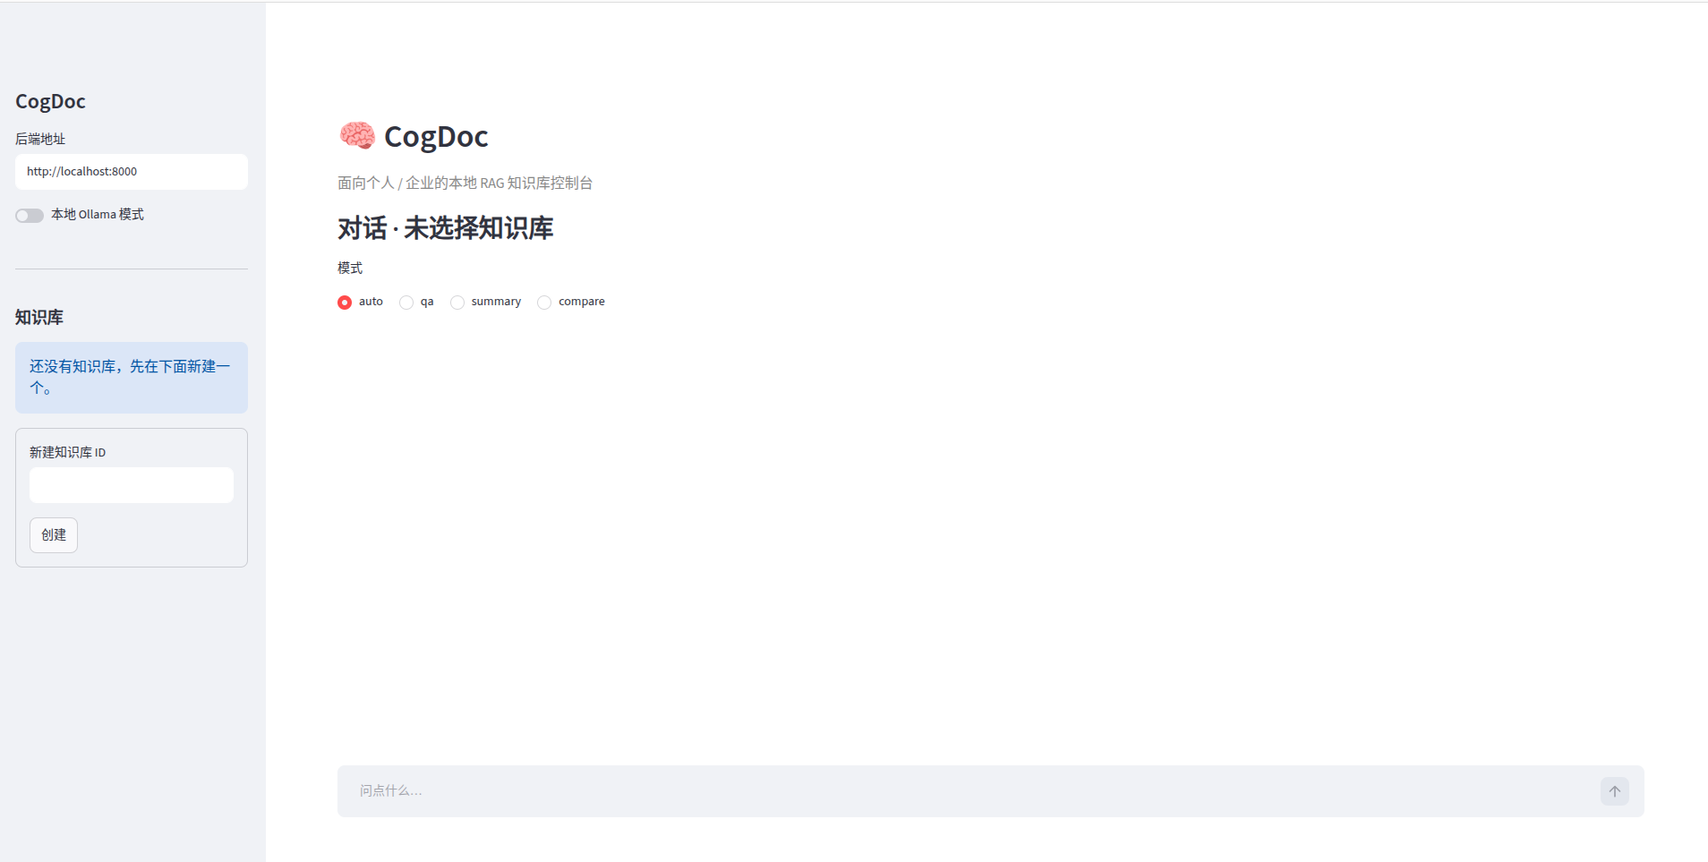
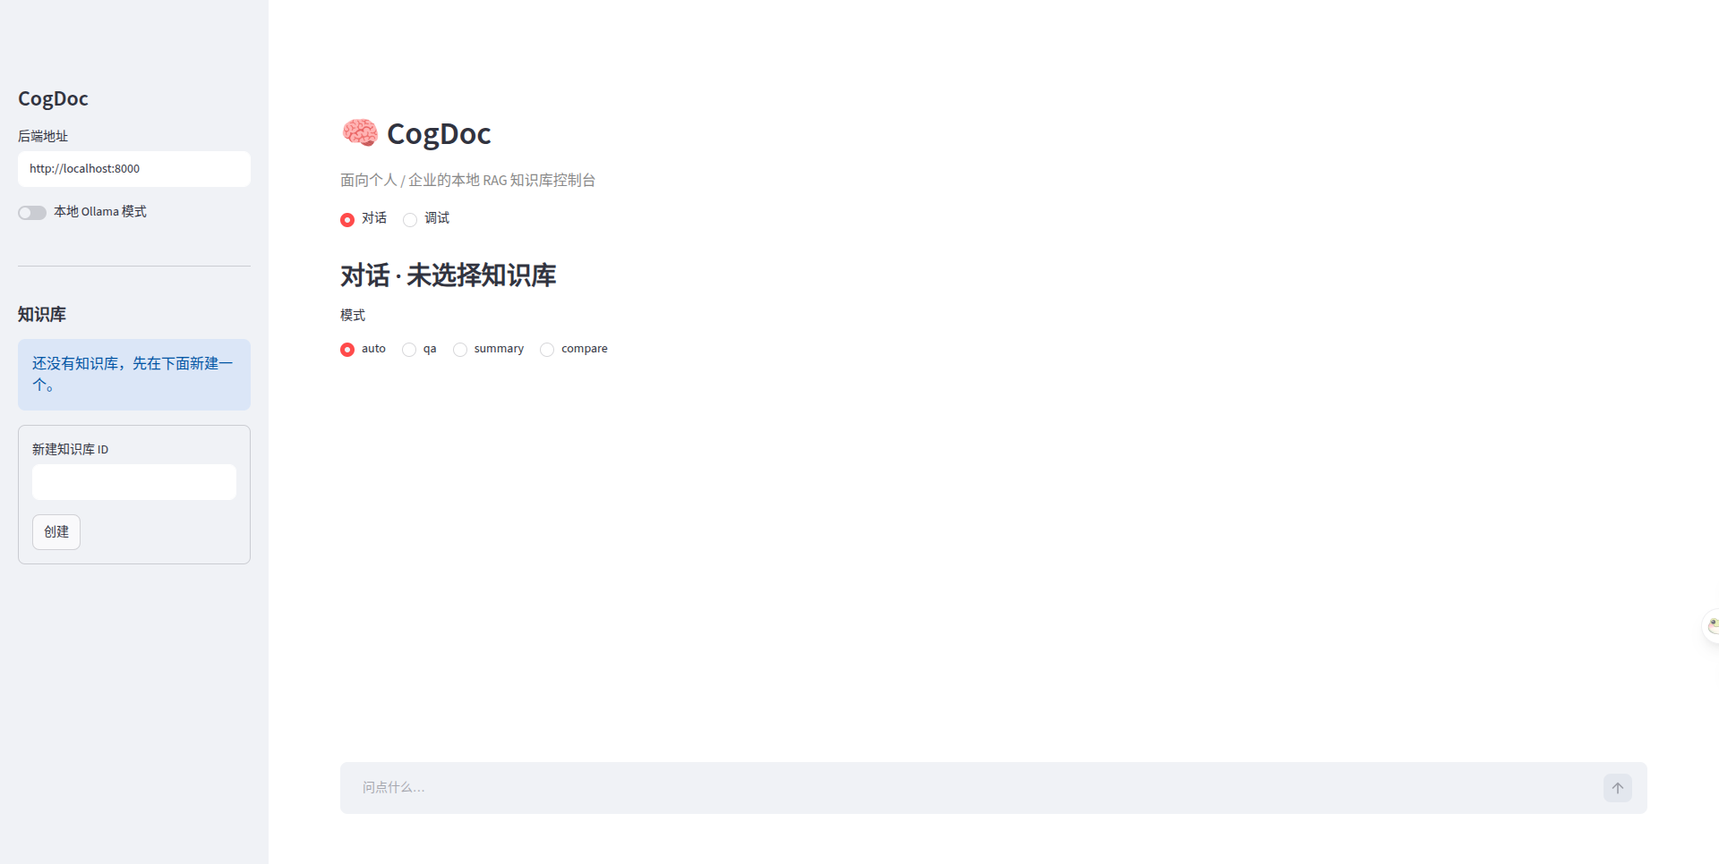
Update README.md

diff --git a/README.md b/README.md
@@ -4,49 +4,65 @@
 
 [English](README.md) · [简体中文](docs/README_zh-CN.md)
 
-A local RAG knowledge-base console for individuals and teams, built on **LangGraph multi-agent orchestration** with a **deterministic Rust core (PyO3 + maturin)** underneath. It answers questions, summarizes a single document, and compares multiple documents over your own PDF knowledge base — and every generated claim is pinned back to a `[source:Pn]` citation that is *checked, not trusted*. Use it from a **CLI console** or a **Streamlit web app** backed by a FastAPI service.
+A local RAG knowledge-base console for individuals and teams, built on **LangGraph multi-agent orchestration** with a **deterministic Rust core (PyO3 + maturin)** underneath. It answers questions, summarizes a single document, and compares multiple documents over your own PDF knowledge base — and every generated claim is pinned back to a `[source:Pn]` citation that is *checked, not trusted*. Use it from a **CLI console**, a **Streamlit web app** backed by FastAPI, or a standalone **Debug console** for trace inspection.
 
 > ⚠ **Text-layer PDFs only — no OCR yet.** Parsing extracts the text layer; pages that look scanned/image-only are flagged (`is_ocr_fallback`) and skipped, not recognized. Use PDFs that contain a real text layer.
 
-## Features
-
 - **Grounded QA with verified citations** — generation is constrained to retrieved document blocks; fabricated file/page tags are caught by a Rust validator and re-generated in a self-heal loop.
+
 - **Structured single-document summary** — fixed sections, deterministic citations bound from chunk metadata.
+
 - **Multi-document comparison** — per-document profiles across fixed dimensions, rendered as cited dimension-by-dimension blocks.
+
 - **Hybrid retrieval, native scoring** — Vector (Chroma + multilingual BGE-M3) and BM25 recall fused by a Rust RRF kernel; tokenization and BM25 are native — Chinese via `jieba-rs`, English lowercased + Snowball-stemmed + stopword-filtered, so both languages retrieve well.
+
 - **Content-addressed incremental cache** — a per-file SHA-256 manifest plus a versioned chunk-identity contract: unchanged files reuse the existing index, and only a changed PDF or chunking scheme triggers an incremental rebuild.
-- **Multiple knowledge bases · multiple conversations · persistent memory** — each KB runs many parallel conversations; history is persisted to SQLite (long-term memory) and survives refresh/restart for replay. Every question carries a recent window of the dialogue (short-term memory, last 12 messages by default) for multi-turn coreference, and only citation-validated answers enter memory so wrong answers never poison later turns.
-- **Two front ends** — a slash-command CLI console and a Streamlit web UI over a FastAPI backend with streaming, history, citations, and feedback.
 
+- **Multiple knowledge bases · multiple conversations · persistent memory** — each KB runs many parallel conversations; the selected KB and session are persisted in the URL, so refresh returns to the same conversation. History is persisted to SQLite (long-term memory) and survives restart for replay. Every question carries a recent dialogue window (short-term memory, last 12 messages by default) for multi-turn coreference, and only citation-validated answers enter memory so wrong answers never poison later turns.
 
+- **Web, CLI, and Debug entry points** — a slash-command CLI console, a Streamlit web UI over FastAPI, and a focused `make debug` console for trace inspection.
 
-1. **Web chat (Streamlit).** Pick a knowledge base, ask in natural language, watch the answer stream, then inspect the citation sources and evidence snippets and leave 👍/👎 feedback.
+- **Trace observability and feedback loop** — every request can export a safe JSON trace with config, node timings, rewrites, evidence previews, and errors; the web UI scopes traces to the current conversation, and feedback is stored by `trace_id`.
+
+- **API access control and rate limiting** — optional API keys protect `/v1` routes, with a token-bucket limiter that avoids throttling high-frequency health/session/trace polling.
+
+  
+
+1. **Web chat with citations and evidence.** Pick a knowledge base, ask in natural language, watch the answer stream, then inspect citation sources, evidence snippets, and feedback controls.
 
    ![Web chat](./docs/images/web-chat.png)
 
-2. **CLI console.** A slash-command console for knowledge bases, ingestion, and multi-conversation history.
+2. **CLI console.** A slash-command console for knowledge bases, ingestion, multi-conversation history, and forced task modes.
 
    ![CLI console](./docs/images/cli-console.png)
 
-3. **Grounded QA.** Every factual sentence ends with a citation whose file name and page exist in the retrieved context; invalid ones bounce the answer back for regeneration.
+3. **Standalone Debug console.** `make debug` opens a focused console for one KB; after a normal answer, continue with `/trace`, `/steps`, `/rewrite`, `/evidence`, and `/config`.
+
+   ![Standalone Debug console](./docs/images/debug-console1.png)
+
+   ![Standalone Debug console](./docs/images/debug-console2.png)
+
+4. **Grounded QA.** Every factual sentence ends with a citation whose file name and page exist in the retrieved context; invalid ones bounce the answer back for regeneration.
 
    ![Grounded QA](./docs/images/qa_net.png)
 
    ![Grounded QA](./docs/images/qa_cli.png)
 
-4. **Structured summary.** Summarize one named document into fixed sections with deterministic per-section citations.
+5. **Structured summary.** Summarize one named document into fixed sections with deterministic per-section citations.
 
    ![Structured summary](./docs/images/summary_net.png)
 
    ![Structured summary](./docs/images/summary_cli.png)
 
-5. **Multi-document comparison.** Compare two or more named documents method-by-method, metric-by-metric, with citations on every cell.
+6. **Multi-document comparison.** Compare two or more named documents method-by-method, metric-by-metric, with citations on every cell.
 
    ![Comparison](./docs/images/compare_net.png)
 
    ![Comparison](./docs/images/compare_cli.png)
 
-6. **Retrieval debug console.** Visualize routing, query rewrites, recalled + reranked chunks with RRF scores, and citation audits for one KB.
+7. **Trace debug panel.** Inspect only the current conversation's traces, including routing, query rewrites, retrieval/rerank steps, request config, and citation audits.
+
+   ![Trace debug panel](./docs/images/web-trace-debug.png)
 
    ![Retrieval debug](./docs/images/debug.png)
 
@@ -55,19 +71,19 @@ A local RAG knowledge-base console for individuals and teams, built on **LangGra
 ```bash
 python -m venv .venv
 source .venv/bin/activate
-pip install -e ".[dev]"   # runtime + build/test deps (editable, src-layout)
+pip install -e ".[dev,frontend]"   # runtime + build/test + Streamlit deps
 make native     # build the Rust extension: cd rust_core && maturin develop --release
 make check      # verify the extension and its native symbols
 make run        # build/reuse the index, warm up models, start the console
 ```
 
-Dependencies live in [pyproject.toml](pyproject.toml): runtime in `[project.dependencies]`, with `dev` (build/test) and `frontend` (Streamlit client) as optional extras — install via `.[dev]` / `.[frontend]`. The package uses a `src/` layout (`src/cogdoc/`); the `make` targets put `src/` on `PYTHONPATH`, so no install is strictly required to run the suite.
+Dependencies live in [pyproject.toml](pyproject.toml): runtime in `[project.dependencies]`, with `dev` (build/test) and `frontend` (Streamlit client) as optional extras — install both for the full local experience via `.[dev,frontend]`. The package uses a `src/` layout (`src/cogdoc/`); the `make` targets put `src/` on `PYTHONPATH`, so no install is strictly required to run the suite.
 
 Copy `.env.example` to `.env` and set at least your cloud `LLM_API_KEY` (or run `/local` with Ollama). Put PDFs in the inbox `your_documents/` (or set `COGDOC_DOC_DIR`). `make native` must be re-run after any change under `rust_core/src/` — the `.so` is not auto-rebuilt and not committed.
 
 ## How to Use
 
-Both front ends share the same KB → ingest → ask flow. Set up once (see [Quick Start](#quick-start)): install deps, build the native extension (`make native && make check`), configure `.env`, and drop PDFs into `your_documents/`.
+The CLI and web app share the same KB → ingest → ask flow. Set up once (see [Quick Start](#quick-start)): install deps, build the native extension (`make native && make check`), configure `.env`, and drop PDFs into `your_documents/`.
 
 ### CLI console
 
@@ -81,9 +97,9 @@ Then drive everything with slash commands inside the console:
 2. `/add <file.pdf>` — ingest an inbox PDF from `your_documents/` into the active KB (synchronous rebuild).
 3. `/new` — start a conversation; `/chats` and `/open` browse persisted history.
 4. Ask directly to run **QA**; "summarize `<file>`" runs **Summary**; "compare `<a>` and `<b>`" runs **Compare**.
-5. `/cloud` uses the cloud LLM, `/local` uses Ollama; `/help` lists everything; `exit` quits.
+5. `/cloud` uses the cloud LLM, `/local` uses Ollama; `/help` lists commands; `exit` quits.
 
-`make debug` opens the retrieval-visualization console for one KB.
+`make debug` opens the standalone Debug console for one KB. Ask questions there to get normal answers plus trace summaries, then use `/trace`, `/steps`, `/rewrite`, `/evidence`, and `/config` to inspect the latest request. To debug a specific KB directly, run `python -m cogdoc.debug --kb <kb_id>`.
 
 ### Web app (Streamlit + FastAPI)
 
@@ -99,6 +115,7 @@ In the browser:
 3. **Conversations** — start a new conversation or reopen a previous one (session and KB persist in the URL, so a refresh resumes the same chat).
 4. **Chat** — pick a mode (`auto` / `qa` / `summary` / `compare`), ask, and read the streamed answer with its citation sources, evidence snippets, and 👍/👎 feedback.
 5. Toggle **Local Ollama mode** in the sidebar to route generation to the local model.
+6. Open **Trace debug** to inspect traces for the current conversation only: request config, node timings, rewrites, evidence previews, and errors.
 
 ### Calling the API directly
 
@@ -111,11 +128,12 @@ The Streamlit app is a thin client over the FastAPI service — you can hit it d
 | `GET /v1/index-jobs/{job_id}` | Poll ingestion progress |
 | `POST /v1/chat`, `POST /v1/chat/stream` | Ask (JSON or SSE streaming) |
 | `GET /v1/sessions`, `GET /v1/sessions/{id}/history` | List / replay conversation history |
+| `GET /v1/traces?doc_id=...&session_id=...` | List recent traces, optionally scoped to one KB/session |
 | `GET /v1/traces/{trace_id}` | Fetch an exported request trace |
 | `POST /v1/feedback` | Submit thumbs-up/down on a `trace_id` |
 | `GET /healthz`, `GET /readyz`, `GET /metrics` | Health, readiness, Prometheus metrics |
 
-If `LLM_API_KEY`-style API keys are configured, requests are authenticated and rate-limited; with no keys set, `/v1` is open (the server logs a warning at startup).
+If `COGDOC_API_KEYS` is configured, `/v1` requests are authenticated and rate-limited; with no keys set, `/v1` is open (the server logs a warning at startup).
 
 ## Tech Stack
 
@@ -123,41 +141,44 @@ If `LLM_API_KEY`-style API keys are configured, requests are authenticated and r
 - **Retrieval** — `bge-m3` multilingual vector recall + BM25 keyword recall, fused by the Rust RRF kernel and reranked by `bge-reranker-v2-m3`; vectors live in [Chroma](https://www.trychroma.com/), PDFs are parsed by PyMuPDF.
 - **Orchestration** — [LangGraph](https://langchain-ai.github.io/langgraph/) wires routing → rewrite → retrieve → generate → citation self-heal into a loopable state graph.
 - **Models** — OpenAI-compatible dual backend, hot-swappable: cloud DeepSeek or local Ollama `qwen2.5:7b`.
-- **Serving** — FastAPI with SSE streaming; sessions / index jobs / feedback persisted in SQLite; Streamlit as a thin client.
+- **Serving and observability** — FastAPI with SSE streaming, optional API-key auth and token-bucket rate limiting; sessions / index jobs / feedback persisted in SQLite; JSON traces exported for the web Trace panel and standalone Debug console.
 
 ## Architecture
 
 ```text
-┌──────────────────────── Front ends ────────────────────────┐
-│   CLI console (slash commands)        Streamlit web UI       │
-└───────────┬───────────────────────────────────┬─────────────┘
-            │ in-process                          │ HTTP + SSE
-            │                            ┌────────▼─────────┐
-            │                            │  FastAPI service │──► SQLite
-            │                            │ sessions·jobs·fb │   (history/jobs/feedback)
-            │                            └────────┬─────────┘
-            ▼  user question                      ▼
-┌────────────────────── LangGraph workflow ──────────────────────┐
-│  intent_router ──► qa | summary | compare | unknown             │
-│                                                                 │
-│  QA:       rewrite ─► verify ─► retrieve ─► rerank ─► generate  │
-│                                                  ▲          │   │
-│                                          citation └─────────┘   │
-│                                          (self-heal loop ≤ N)    │
-│  Summary:  loader ─► plan ─► section ─► global                  │
-│  Compare:  loader ─► profile ─► table ─► citation               │
-└───────────┬─────────────────────────────────────┬──────────────┘
-            │ hybrid retrieval                     │ native kernels
-┌───────────▼────────────┐            ┌────────────▼───────────────┐
-│  Chroma (vectors)      │            │  Rust core (PyO3 + maturin) │
-│  BM25 native artifact  │ ◄────────► │  tokenize · BM25 · RRF ·    │
-│  PDFs via PyMuPDF      │            │  SHA-256 · citation check   │
-└────────────────────────┘            └─────────────────────────────┘
+┌───────────────────┐     ┌───────────────────┐     ┌───────────────────┐
+│ CLI console       │     │ Debug console     │     │ Streamlit web UI  │
+└─────────┬─────────┘     └─────────┬─────────┘     └─────────┬─────────┘
+          │                         │                         │
+          │ in-process              │ in-process              │ HTTP + SSE
+          ▼                         ▼                         ▼
+┌───────────────────────────────────────────────────────────────────────┐
+│                          LangGraph workflow                           │
+│                                                                       │
+│  intent_router  →  qa / summary / compare / unknown                   │
+│                                                                       │
+│  QA:       rewrite → verify → retrieve → rerank → generate            │
+│                                                   ▲          │        │
+│                                                   │          ▼        │
+│                                                citation ◄────┘        │
+│                                                self-heal loop         │
+│                                                                       │
+│  Summary:  loader → plan → section → global                           │
+│  Compare:  loader → profile → table → citation                        │
+└─────────────────────────────┬───────────────────────────┬─────────────┘
+                              │                           │
+                              │ hybrid retrieval          │ native kernels
+                              ▼                           ▼
+┌───────────────────────────────┐     ┌───────────────────────────────┐
+│ Chroma vectors                │     │ Rust core                     │
+│ BM25 native artifact          │◄───►│ tokenize · BM25 · RRF         │
+│ PDFs via PyMuPDF              │     │ SHA-256 · citation check      │
+└───────────────────────────────┘     └───────────────────────────────┘
 ```
 
 Summary builds a fixed-section structured summary of one named document; Compare builds a per-document profile across fixed dimensions and renders cited Markdown comparison blocks grouped by dimension. Both bind `[source:Pn]` citations deterministically from chunk metadata and run the same `validate_citations_native` checker as QA — no subgraph is exempt.
 
-The Python layer owns orchestration, prompts, model clients, indexing, the CLI console, and the FastAPI/Streamlit front ends. The Rust layer (`rust_core`) owns deterministic kernels that stay stable across agent changes and are unit-tested independently.
+The Python layer owns orchestration, prompts, model clients, indexing, the CLI console, the standalone Debug console, and the FastAPI/Streamlit front ends. The Rust layer (`rust_core`) owns deterministic kernels that stay stable across agent changes and are unit-tested independently.
 
 ## Indexing Pipeline
 
@@ -208,7 +229,7 @@ chunk_id = sha256:{source_sha256}:src:{source_name}:p{page_start}-p{page_end}:c{
 CogDoc/
 ├── src/cogdoc/              # the importable package (src-layout)
 │   ├── cli.py               # multi-KB / multi-conversation console (python -m cogdoc.cli / `cogdoc`)
-│   ├── debug.py             # retrieval-visualization console (python -m cogdoc.debug / `cogdoc-debug`)
+│   ├── debug.py             # standalone trace Debug console (python -m cogdoc.debug / `cogdoc-debug`)
 │   ├── agents/              # router, query_rewriter, rewrite_verifier, qa_generator,
 │   │                        # citation_validator, structured_output, summary_*, compare_*
 │   ├── api/                 # FastAPI app, routes, persistence, access control, metrics
@@ -232,11 +253,20 @@ CogDoc/
 | Variable | Default | Purpose |
 | --- | --- | --- |
 | `COGDOC_DOC_DIR` | `your_documents` | Inbox directory of PDFs that `/add` ingests into a KB |
+| `COGDOC_DATA_DIR` | `./data` | Root for persisted KB state, SQLite DBs, manifests, and index artifacts |
+| `COGDOC_TRACE_ENABLED` | `true` | Enable JSON trace export for request inspection |
+| `COGDOC_TRACE_DIR` | `logs/traces` | Directory for exported trace JSON files |
+| `COGDOC_API_KEYS` | unset | Comma-separated API keys; empty disables API auth |
+| `RATE_LIMIT_PER_MINUTE` | `120` | Token-bucket refill rate for protected API routes |
+| `RATE_LIMIT_BURST` | `120` | Token-bucket burst capacity; `<=0` disables rate limiting |
+| `COGDOC_MAX_UPLOAD_MB` | `50` | Maximum PDF upload size through the API/frontend |
 | `OLLAMA_BASE_URL` | `http://localhost:11434/v1` | Local OpenAI-compatible Ollama endpoint |
 | `OLLAMA_MODEL_NAME` | `qwen2.5:7b` | Local model name |
+| `OLLAMA_TIMEOUT_SECONDS` | `180` | Local model request timeout |
 | `LLM_BASE_URL` | `https://api.deepseek.com/v1` | Cloud OpenAI-compatible endpoint |
 | `LLM_MODEL_NAME` | `deepseek-chat` | Cloud model name |
 | `LLM_API_KEY` | `your-cloud-api-key-here` | Cloud API key |
+| `LLM_TIMEOUT_SECONDS` | `90` | Cloud model request timeout |
 | `HF_TOKEN` | unset | Optional Hugging Face Hub token |
 
 Requirements: Python 3.11+ (developed on 3.13; the extension targets 3.8+), a Rust toolchain with `cargo` (edition 2024, via [rustup](https://rustup.rs/)), and [maturin](https://www.maturin.rs/). Optional: [Ollama](https://ollama.com/) for local models. See `.env.example` for the full set of tunables (retrieval `top_k`, rerank `top_n`, RRF `k`, CUDA memory floors, eval set paths).
@@ -260,7 +290,7 @@ Requirements: Python 3.11+ (developed on 3.13; the extension targets 3.8+), a Ru
 | `make run` | Start the interactive CLI console |
 | `make serve` | Start the FastAPI service (`uvicorn cogdoc.api.app:app`) |
 | `make frontend` | Start the Streamlit web app |
-| `make debug` | Start the retrieval-visualization console |
+| `make debug` | Start the standalone Debug console |
 | `cd rust_core && cargo test` | Run Rust unit tests |
 | `cd rust_core && cargo fmt --check` | Check Rust formatting |
 
@@ -268,7 +298,7 @@ Test layering: business logic and the Python↔native API contract are tested in
 
 Offline evaluation uses local JSONL files under `eval/`. `make eval-suite` is the default gate: it audits retrieval and quality coverage, runs the cheap quality metrics, prints quality metrics by case type and layer, and skips real retrieval by default. `make eval-suite-report` writes `eval/eval_suite_report.json`; `make eval-suite-baseline` compares aggregate, case-type, and layer-level quality metrics against `eval/eval_suite_baseline.json`; `make eval-suite-update-baseline` refreshes that baseline after review. Both generated files are ignored by Git. Add `--run-retrieval` when a real index is available and retrieval metrics should also be compared. `make eval` measures retrieval (`recall@k`, hit rate, MRR) against `eval/retrieval_eval.jsonl`, falling back to `eval/retrieval_eval.example.jsonl` on a clean checkout. Use `make eval-coverage` to check whether the retrieval eval set covers single-source, multi-source, and no-answer cases without touching the real index. `make eval-quality` measures router accuracy, citation accuracy, and the manual faithfulness ledger; use `make eval-quality-coverage` to run those quality metrics and fail when the eval set misses required case types or recommended layers. For a coverage-only quality check, run `python scripts/eval_quality.py --coverage-only`. `--coverage-only` is intentionally incompatible with `--check-coverage`, `--json`, and `--baseline`.
 
-Every chat request gets a `request_id`/`trace_id`. When `COGDOC_TRACE_ENABLED=true`, the service writes JSON traces under `COGDOC_TRACE_DIR` (default `logs/traces`), and the same safe payload is available through `GET /v1/traces/{trace_id}`. Trace files include `schema_version`, `status` (`ok`, `degraded`, or `failed`), total `duration_ms`, a safe config snapshot, step summaries, error summaries, and only truncated evidence previews rather than full document text.
+Every chat request gets a `request_id`/`trace_id`. When `COGDOC_TRACE_ENABLED=true`, the service writes JSON traces under `COGDOC_TRACE_DIR` (default `logs/traces`), and the same safe payload is available through `GET /v1/traces/{trace_id}`. `GET /v1/traces` lists recent traces and can be scoped by `doc_id` and `session_id`, which is how the Streamlit Trace panel shows only the current conversation. Trace files include `schema_version`, `status` (`ok`, `degraded`, or `failed`), total `duration_ms`, a safe config snapshot, step summaries, rewrite summaries, error summaries, and only truncated evidence previews rather than full document text. The standalone Debug console reads the same trace format.
 
 ## Known Limitations
 
